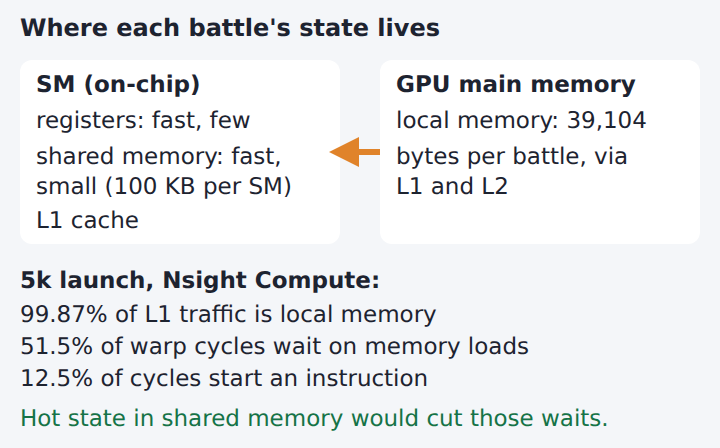
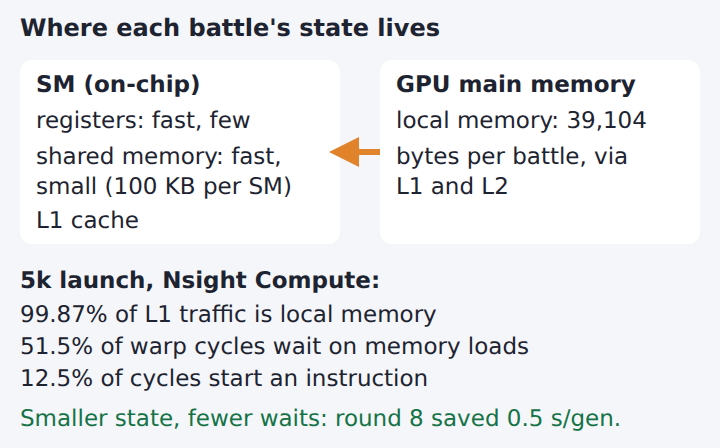
gpu round 9: page fixes from check round 2 (pool size, 36k defined, verdict on warm s/gen vs spreads, measured early/late filler change, timeline time axis, unmeasured shared-memory claim removed, glossary)
Claude-Session: https://claude.ai/code/session_01Ws3K6hiVf42Evxx3QjPVsr

Changed region(s): [[0.0306, 0.9062, 0.8556, 0.9688]]

diff --git a/gpu/gpu/study/check_page.py b/gpu/gpu/study/check_page.py
@@ -97,6 +97,13 @@ def expected():
     if full["tail"] and full["tail"]["exit"] == 0:
         E["full.tail.latewait"] = full["tail"]["late"]
     for v in ("tail", "certain"):
+        if full[v] and full["default"] and full[v]["warm"] is not None and full["default"]["warm"] is not None:
+            E[f"full.{v}.dwarm"] = full[v]["warm"] - full["default"]["warm"]
+    if full["tail"] and full["default"]:
+        walls = {v: [g["wall"] for g in (jl(os.path.join(OUT, f"evolve-gpu8-r9-full-{v}", "gpu-profile.json")) or {}).get("generations", [])] for v in ("tail", "default")}
+        rng = lambda a, b: sum(walls["tail"][a:b + 1]) / (b - a + 1) - sum(walls["default"][a:b + 1]) / (b - a + 1)
+        E["full.tail.early"], E["full.tail.late"] = rng(4, 9), rng(60, 99)
+    for v in ("tail", "certain"):
         if full[v] and full["default"] and full[v]["total"] and full["default"]["total"]:
             E[f"full.{v}.dmin"] = (full[v]["total"] - full["default"]["total"]) / 60
     tl = (jl(os.path.join(S, "prof/tail-timeline.json")) or {}).get("launches", {})
@@ -104,6 +111,7 @@ def expected():
         for m, r in modes.items():
             v = "default" if m == "off" else m
             E[f"tl.{l}.{v}.active"], E[f"tl.{l}.{v}.span"] = r["sm_active_share_pct"], r["main_span_s"]
+            E[f"tl.{l}.{v}.pool"] = r["pool"]
     if "10k" in tl and "tail" in tl["10k"]:
         E["tl.10k.activegain"] = tl["10k"]["tail"]["sm_active_share_pct"] - tl["10k"]["off"]["sm_active_share_pct"]
         E["tl.10k.spangain"] = tl["10k"]["tail"]["main_span_s"] - tl["10k"]["off"]["main_span_s"]

diff --git a/docs/gpu-viability.md b/docs/gpu-viability.md
@@ -404,7 +404,7 @@ time through `out/gpu/study/r9chain.sh` under `flock out/gpu/study/gpu.lock`.
   sits in the tail, and later rounds find battles already done, so the non-tail kernel time falls (about 6.2 → 3.7 s/gen). Per launch with a next-round pool (2 of 3 per generation) the filler ran 3,315 battles; 65% finished in time and 49% were later used.
 - **Full runs (100 gens, standard).** Default 17.2 min (19:48–20:05 ET), tail 17.4 min (18:54–19:12 ET), tail,certain
   17.0 min (19:12–19:29 ET); one run each, so no spread. Warm s/gen 10.08 / 10.26 / 10.05: the 10-gen gain of tail did
-  not carry over to 100 gens.
+  not carry over to 100 gens. Per generation, tail saved 0.56 s in gens 4-9 and cost 0.57 s in gens 60-99; why is not measured.
 - **SM-active timeline** (replay of dumped launches on the fixed code, 19:44 ET, `out/gpu/study/prof/tail-timeline.json`;
   the next-round pool is a stand-in, up to 6,000 battles of another dumped launch): on the 10k launch SMs are busy 48.1%
   of the launch with the default, 55.4% with tail, 60.2% with tail,certain, but the launch ends 0.54 s later with
@@ -422,5 +422,6 @@ time through `out/gpu/study/r9chain.sh` under `flock out/gpu/study/gpu.lock`.
   dropped).
 - **GPU time.** About 7 h of chain stages against the ~3 h budget, because the four bugs forced three chain restarts.
   Cut: ncu on the tail kernel and the 36k launch (driver resets), a second full run per variant.
-- **Next:** keep each battle's hot state in on-chip shared memory; that targets the long-scoreboard waits directly.
+- **Next:** cut more bytes from each battle's state (round 8's compact state saved 0.5 s/gen); local memory is 99.9% of L1
+  traffic, so that targets the long-scoreboard waits. Shared memory is too small to hold it (100 KB per SM vs ~39 KB per battle).
   Keep the tail flags off.

diff --git a/docs/gpu-round9-explained.md b/docs/gpu-round9-explained.md
@@ -24,7 +24,9 @@ Local memory is GPU main memory, reached through the L1 and L2 caches.
 
 Nsight Compute, NVIDIA's profiler, shows this is nearly all L1 traffic. Half of all warp cycles wait for it.
 
-Shared memory sits inside the SM. Keeping the hot state there would remove most of those waits.
+Round 8's compact state packs fields into 8 and 16 bits. Less state means fewer bytes to wait for.
+
+It saved 0.5 s per generation in a 3-pass A/B.
 
 ## Why the scheduling ideas ran slower
 
